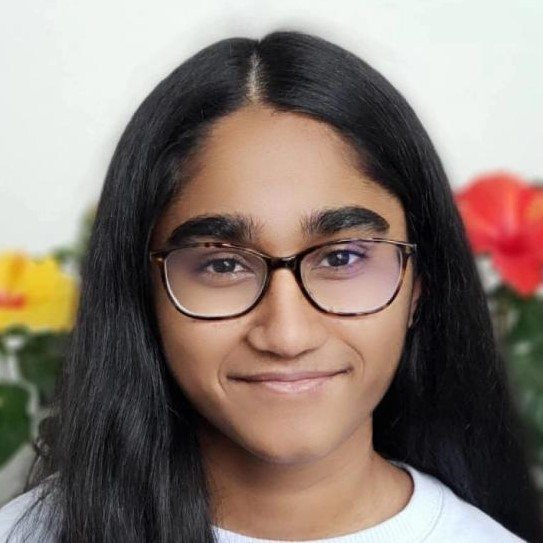
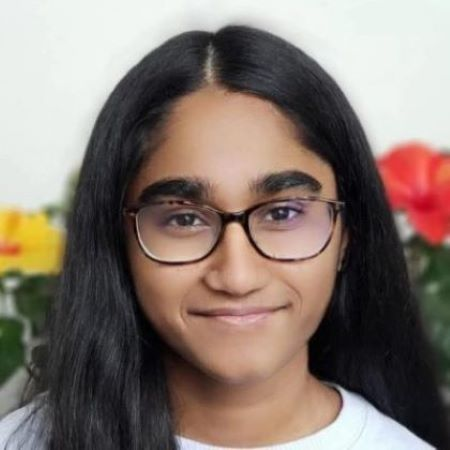
made everyone's pictures the same size!

diff --git a/index.html b/index.html
@@ -1322,21 +1322,21 @@
                 </section>
               </div>
               <div class="profile">
-                <img class="profilePhoto" src="prisha.jpeg">
+                <img class="profilePhoto" src="prishResized.jpg">
                 <section class="profileCaption">
                   <p>Prisha Singh</p>
                   <p>Project Coordinators</p>
                 </section>
               </div>
               <div class="profile">
-                <img class="profilePhoto" src="tapisar.jpg">
+                <img class="profilePhoto" src="tapisarResized.jpg">
                 <section class="profileCaption">
                   <p>Tapisar Singh</p>
                   <p>Secretary</p>
                 </section>
               </div>
               <div class="profile">
-                <img class="profilePhoto" src="sanika.jpeg">
+                <img class="profilePhoto" src="sanikaResized.jpg">
                 <section class="profileCaption">
                   <p>Sanika Misra</p>
                   <p>Public Relations</p>
